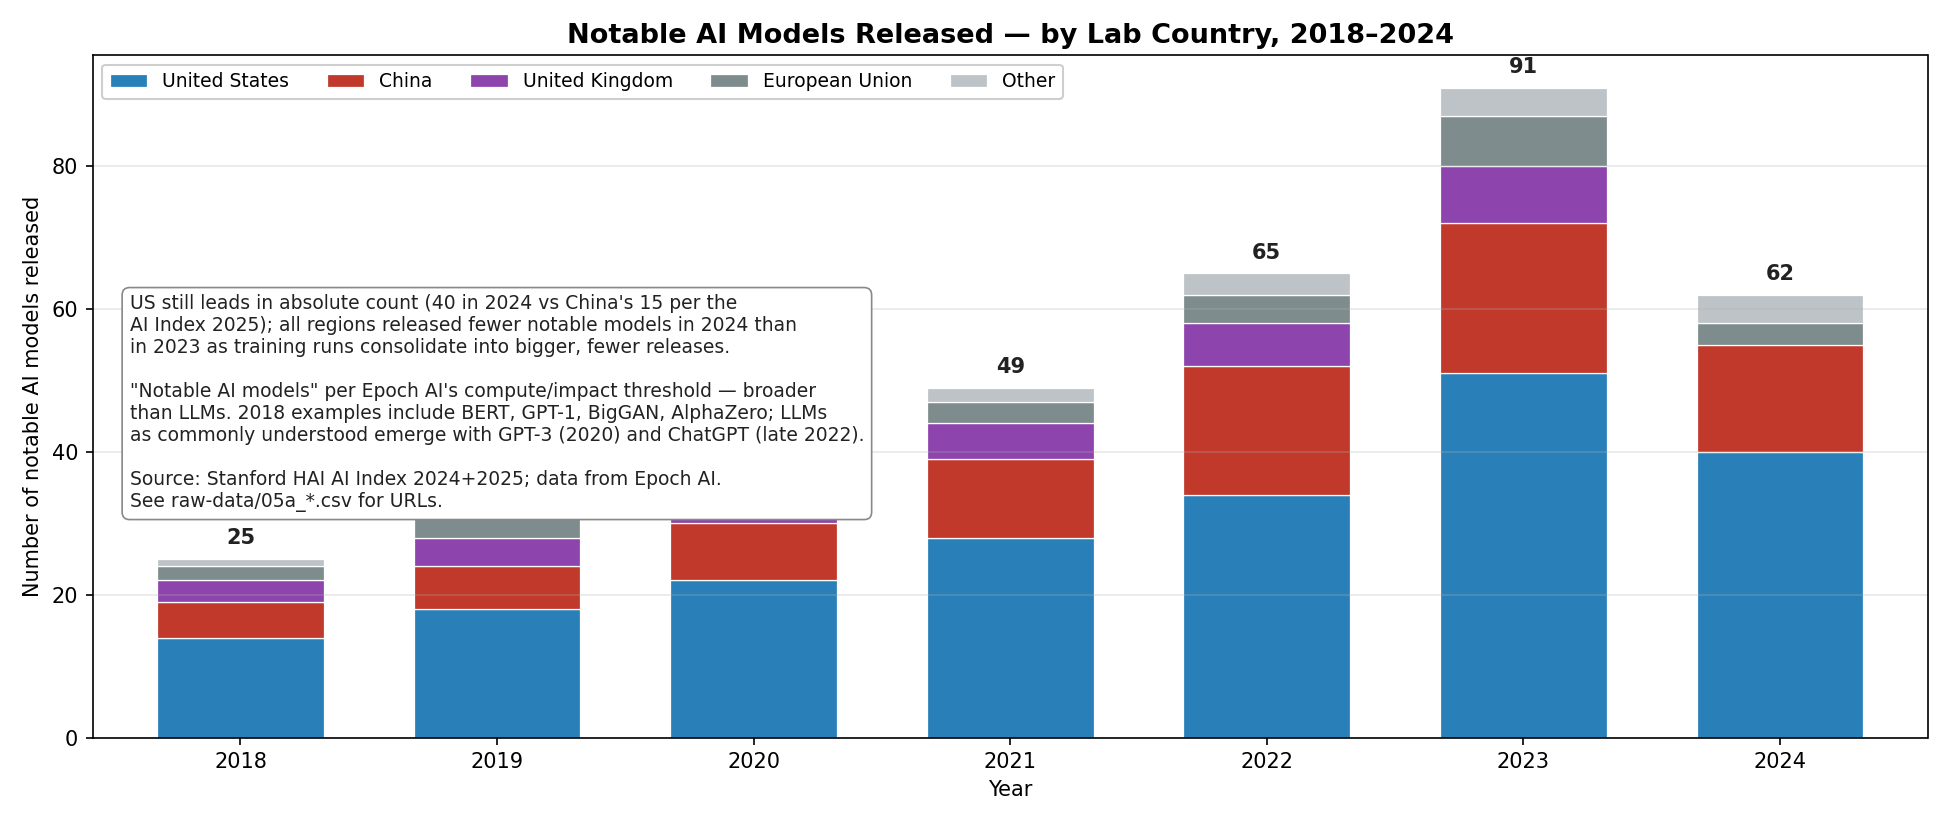
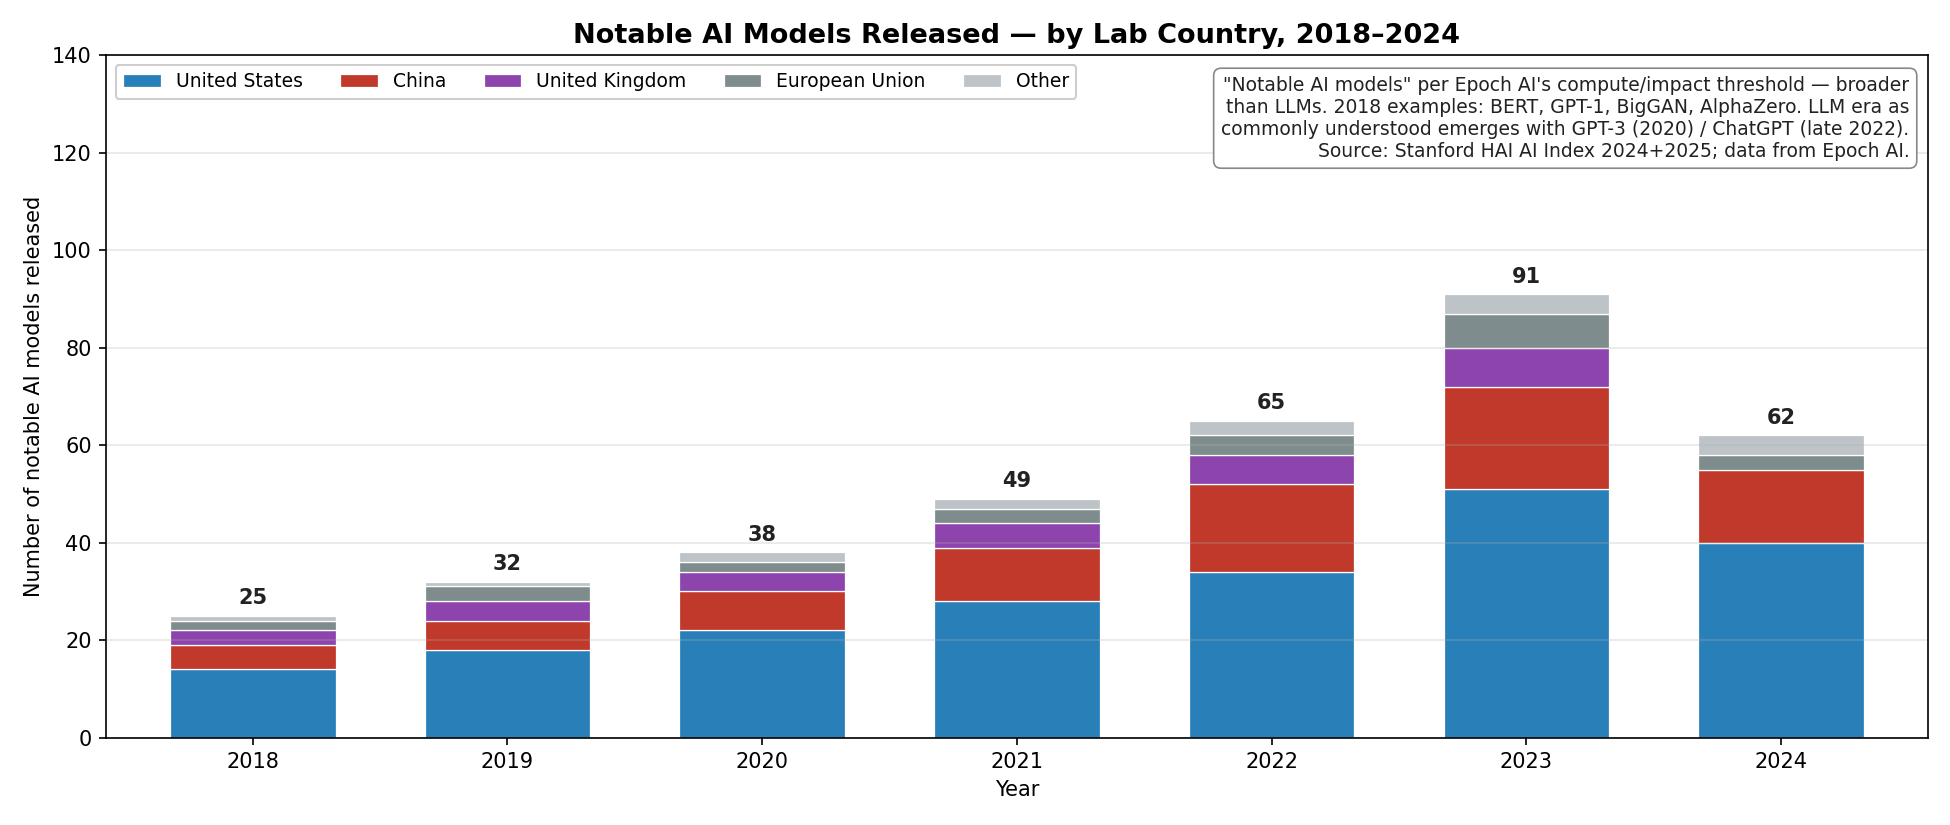
Move §6 5a annotation above bars: bump ylim, tighten text to 4 lines
Annotation at upper-left was covering the 2019/2020 bars; moved to
upper-right was covering the 2023 value label (91). Final fix: ylim
bumped to 140 for headroom, annotation tightened to 4 lines, anchored
top-right. All seven bar totals (25, 32, 38, 49, 65, 91, 62) now
visible above their bars; annotation sits cleanly in the empty space.

diff --git a/china-industry/05_ai.py b/china-industry/05_ai.py
@@ -63,21 +63,18 @@ ax.set_xlabel("Year"); ax.set_ylabel("Number of notable AI models released")
 ax.set_xticklabels(models.index, rotation=0)
 ax.legend(ncol=5, loc="upper left", fontsize=9, framealpha=0.95)
 ax.grid(axis="y", alpha=0.3)
+ax.set_ylim(0, 140)
 totals = models.sum(axis=1)
 for i, t in enumerate(totals):
     ax.text(i, t + 1.5, f"{t}", ha="center", va="bottom",
             fontsize=10, color="#222", fontweight="bold")
 ax.annotate(
-    "US still leads in absolute count (40 in 2024 vs China's 15 per the\n"
-    "AI Index 2025); all regions released fewer notable models in 2024 than\n"
-    "in 2023 as training runs consolidate into bigger, fewer releases.\n\n"
     "\"Notable AI models\" per Epoch AI's compute/impact threshold — broader\n"
-    "than LLMs. 2018 examples include BERT, GPT-1, BigGAN, AlphaZero; LLMs\n"
-    "as commonly understood emerge with GPT-3 (2020) and ChatGPT (late 2022).\n\n"
-    "Source: Stanford HAI AI Index 2024+2025; data from Epoch AI.\n"
-    "See raw-data/05a_*.csv for URLs.",
-    xy=(0.02, 0.65), xycoords="axes fraction",
-    fontsize=9, color="#222", va="top", ha="left",
+    "than LLMs. 2018 examples: BERT, GPT-1, BigGAN, AlphaZero. LLM era as\n"
+    "commonly understood emerges with GPT-3 (2020) / ChatGPT (late 2022).\n"
+    "Source: Stanford HAI AI Index 2024+2025; data from Epoch AI.",
+    xy=(0.99, 0.97), xycoords="axes fraction",
+    fontsize=9, color="#222", va="top", ha="right",
     bbox=dict(boxstyle="round,pad=0.4", facecolor="white",
               edgecolor="#888", linewidth=0.8))
 plt.tight_layout()
